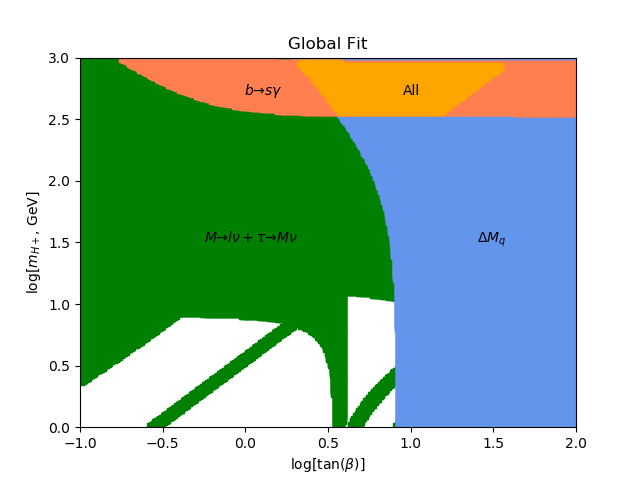
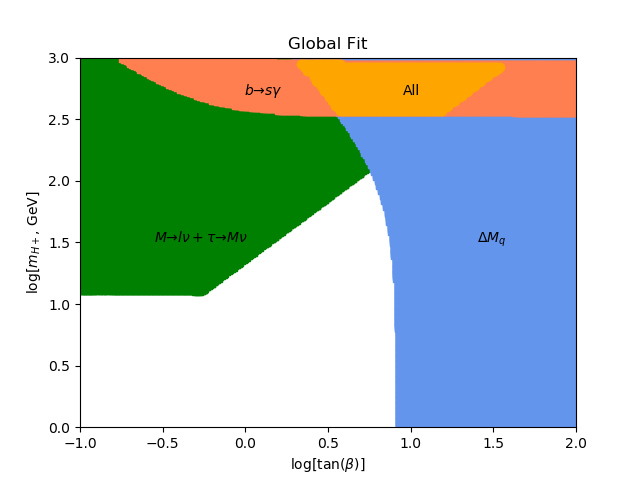
stuff

Changed region(s): [[0.125, 0.3438, 0.625, 0.9062]]

diff --git a/calcs/branching.py b/calcs/branching.py
@@ -50,10 +50,10 @@ kpitau_exp, kpitau_exp_err = [6.438e-2,[9.384e-4,-9.384e-4]]
 # B+ -> tau+ nu
 mH_bplus, tanb_bplus = itera(m_bplus,m_bplus_err,m_tau,m_tau_err,Vub,Vub_err,f_bplus,f_bplus_err,tau_bplus,tau_bplus_err,m_u,m_u_err,m_b,m_b_err,bplus_exp,bplus_err_exp)
 
-plt.figure()
-plt.scatter(tanb_bplus,mH_bplus,c='green',marker=',')
-plt.ylabel('$\\log[m_{H+}$, GeV]')
-plt.xlabel('$\\log[\\tan(\\beta)]$')
+#plt.figure()
+#plt.scatter(tanb_bplus,mH_bplus,c='green',marker=',')
+#plt.ylabel('$\\log[m_{H+}$, GeV]')
+#plt.xlabel('$\\log[\\tan(\\beta)]$')
 #plt.title('$B^+\\to\\tau^+\\nu$')
 #plt.show()
 
@@ -61,7 +61,7 @@ plt.xlabel('$\\log[\\tan(\\beta)]$')
 mH_dplus, tanb_dplus = itera(m_dplus,m_dplus_err,m_mu,m_mu_err,Vcd,Vcd_err,f_dplus,f_dplus_err,tau_dplus,tau_dplus_err,m_c,m_c_err,m_d,m_d_err,dplus_exp,dplus_err_exp)
 
 #plt.figure()
-plt.scatter(tanb_dplus,mH_dplus,c='green',marker=',')
+#plt.scatter(tanb_dplus,mH_dplus,c='green',marker=',')
 #plt.ylabel('$\\log[m_{H+}$, GeV]')
 #plt.xlabel('$\\log[\\tan(\\beta)]$')
 #plt.title('$D^+\\to\\mu^+\\nu$')
@@ -72,27 +72,70 @@ plt.scatter(tanb_dplus,mH_dplus,c='green',marker=',')
 mH_dsplus, tanb_dsplus = itera(m_dsplus,m_dsplus_err,m_tau,m_tau_err,Vcs,Vcs_err,f_dsplus,f_dsplus_err,tau_dsplus,tau_dsplus_err,m_c,m_c_err,m_s,m_s_err,dsplus_exp,dsplus_err_exp)
 
 #plt.figure()
-plt.scatter(tanb_dsplus,mH_dsplus,c='green',marker=',')
+#plt.scatter(tanb_dsplus,mH_dsplus,c='green',marker=',')
 #plt.ylabel('$\\log[m_{H+}$, GeV]')
 #plt.xlabel('$\\log[\\tan(\\beta)]$')
 #plt.title('$D_s^+\\to\\tau^+\\nu$')
 #plt.show()
 
 # (K -> mu)/(pi -> mu) + (tau -> K)/(tau -> pi)
-#mH_kpi, tanb_kpi, 
 mH2, tanb2 = itera_kpi(m_K,m_K_err,m_pi,m_pi_err,m_mu,m_mu_err,m_tau,m_tau_err,Vus,Vus_err,Vud,Vud_err,f_Kpi,f_Kpi_err,delt_kpi,delt_kpi_err,delt_kpitau,delt_kpitau_err,m_s,m_s_err,m_d,m_d_err,m_u,m_u_err,kpi_exp,kpi_exp_err,kpitau_exp,kpi_exp_err)
 
 #plt.figure()
-#plt.scatter(tanb_kpi,mH_kpi,c='green',marker=',')
+#plt.scatter(tanb2,mH2,c='green',marker=',')
 #plt.ylabel('$\\log[m_{H+}$, GeV]')
 #plt.xlabel('$\\log[\\tan(\\beta)]$')
 #plt.title('$K\\to\\mu\\nu/\\pi\\to\\mu\\nu$ & $\\tau\\to K\\nu/\\tau\\to\\pi\\nu$')
 #plt.show()
 
-#plt.figure()
-plt.scatter(tanb2,mH2,c='green',marker=',')
-#plt.ylabel('$\\log[m_{H+}$, GeV]')
-#plt.xlabel('$\\log[\\tan(\\beta)]$')
+hak,tak = [],[]
+for r in range(len(tanb_bplus)):
+    if tanb_bplus[r] > -0.3 and tanb_bplus[r] < 0.7 and mH_bplus[r] > 1.1:
+        tak = np.append(tak,tanb_bplus[r])
+        hak = np.append(hak,mH_bplus[r])
+store_s = []
+for s in range(len(tak)):
+    if tak[s] > 0.4 and tak[s] < 0.75 and hak[s] > 1 and hak[s] < 1.4:
+        store_s = np.append(store_s,s)
+tak = np.delete(tak,store_s)
+hak = np.delete(hak,store_s)
+
+hlep = np.linspace(0,3,300)
+tlep = np.linspace(-1,2,300)
+hlepi = []
+tlepi = []
+
+for i in range(len(hlep)):
+    for j in range(len(tlep)):
+        hb = np.where(mH_bplus==hlep[i])[0]
+        hd = np.where(mH_dplus==hlep[i])[0]
+        hds = np.where(mH_dsplus==hlep[i])[0]
+        hkpi = np.where(mH2==hlep[i])[0]
+        
+        lb,ld,lds,lkpi = [],[],[],[]
+        for k in range(len(hb)):
+            if tanb_bplus[hb[k]] == tlep[j]:
+                lb = np.append(lb,hb[k])
+        for l in range(len(hd)):
+            if tanb_dplus[hd[l]] == tlep[j]:
+                ld = np.append(ld,hd[l])
+        for m in range(len(hds)):
+            if tanb_dsplus[hds[m]] == tlep[j]:
+                lds = np.append(lds,hds[m])
+        for n in range(len(hkpi)):
+            if tanb2[hkpi[n]] == tlep[j]:
+                lkpi = np.append(lkpi,hkpi[n])
+
+        if len(lb) > 0 and len(ld) > 0 and len(lds) > 0 and len(lkpi) > 0:
+            hlepi = np.append(hlepi,hlep[i])
+            tlepi = np.append(tlepi,tlep[j])
+
+plt.figure()
+plt.scatter(tlepi,hlepi,c='green',marker=',')
+plt.scatter(tak,hak,c='green',marker=',')
+plt.ylabel('$\\log[m_{H+}$, GeV]')
+plt.xlabel('$\\log[\\tan(\\beta)]$')
+plt.axis([-1,2,0,3])
 #plt.title('$K\\to\\mu\\nu/\\pi\\to\\mu\\nu$ & $\\tau\\to K\\nu/\\tau\\to\\pi\\nu$')
 #plt.show()
 
@@ -143,8 +186,8 @@ plt.axis([-1,2,0,3])
 #plt.show()
 
 
-
 ###################### b to s gamma
+
 lambda_QCD, QCD_err = [0.224972,[0.012412,-0.012886]]
 mt1, mt1_err = [173.1,[0.9,-0.9]]
 mW1, mW1_err = [80.379,[0.012,-0.012]]
@@ -177,38 +220,26 @@ t = np.linspace(-1,2,300)
 hl = []
 tl = []
 
-for i in range(len(h)):
-    for j in range(len(t)):
-        hb = np.where(mH_bplus==h[i])[0]# and tanb_bplus==t[j]))[0]
-        hd = np.where(mH_dplus==h[i])[0]# and tanb_dplus==t[j]))[0]
-        hds = np.where(mH_dsplus==h[i])[0]# and tanb_dsplus==t[j]))[0]
-        hkpi = np.where(mH2==h[i])[0]# and tanb2==t[j]))[0]
-        hmd = np.where(mH_md==h[i])[0]# and tanb_md==t[j]))[0]
-        hgam = np.where(mH_gam==h[i])[0]# and tanb_ms==t[j]))[0]
+for x in range(len(h)):
+    for y in range(len(t)):
+        hlp = np.where(hlepi==h[x])[0]# and tanb2==t[j]))[0]
+        hmd = np.where(mH_md==h[x])[0]# and tanb_md==t[j]))[0]
+        hgam = np.where(mH_gam==h[x])[0]# and tanb_ms==t[j]))[0]
         
-        lb,ld,lds,lkpi,lmd,lgam = [],[],[],[],[],[]
-        for k in range(len(hb)):
-            if tanb_bplus[hb[k]] == t[j]:
-                lb = np.append(lb,hb[k])
-        for l in range(len(hd)):
-            if tanb_dplus[hd[l]] == t[j]:
-                ld = np.append(ld,hd[l])
-        for m in range(len(hds)):
-            if tanb_dsplus[hds[m]] == t[j]:
-                lds = np.append(lds,hds[m])
-        for n in range(len(hkpi)):
-            if tanb2[hkpi[n]] == t[j]:
-                lkpi = np.append(lkpi,hkpi[n])
-        for o in range(len(hmd)):
-            if tanb_md[hmd[o]] == t[j]:
-                lmd = np.append(lb,hmd[o])
-        for p in range(len(hgam)):
-            if tanb_gam[hgam[p]] == t[j]:
-                lgam = np.append(lgam,hgam[p])
+        llp,lmd,lgam = [],[],[]
+        for ni in range(len(hlp)):
+            if tlepi[hlp[ni]] == t[y]:
+                llp = np.append(llp,hlp[ni])
+        for oi in range(len(hmd)):
+            if tanb_md[hmd[oi]] == t[y]:
+                lmd = np.append(lb,hmd[oi])
+        for pi in range(len(hgam)):
+            if tanb_gam[hgam[pi]] == t[y]:
+                lgam = np.append(lgam,hgam[pi])
 
-        if len(lb) > 0 and len(ld) > 0 and len(lds) > 0 and len(lkpi) > 0 and len(lmd) > 0 and len(lgam) > 0:
-            hl = np.append(hl,h[i])
-            tl = np.append(tl,t[j])
+        if len(llp) > 0 and len(lmd) > 0 and len(lgam) > 0:
+            hl = np.append(hl,h[x])
+            tl = np.append(tl,t[y])
 
 #plt.figure()
 plt.scatter(tl,hl,c='orange')
@@ -216,7 +247,7 @@ plt.axis([-1,2,0,3])
 plt.ylabel('$\\log[m_{H+}$, GeV]')
 plt.xlabel('$\\log[\\tan(\\beta)]$')
 plt.title('Global Fit')
-plt.annotate('$M\\to l\\nu+\\tau\\to M\\nu$',xy=(0.25,0.5),xycoords='axes fraction')
+plt.annotate('$M\\to l\\nu+\\tau\\to M\\nu$',xy=(0.15,0.5),xycoords='axes fraction')
 plt.annotate('$b\\to s\\gamma$',xy=(0.33,0.9),xycoords='axes fraction')
 plt.annotate('All',xy=(0.65,0.9),xycoords='axes fraction')
 plt.annotate('$\\Delta M_q$',xy=(0.8,0.5),xycoords='axes fraction')

diff --git a/calcs/functions.py b/calcs/functions.py
@@ -259,10 +259,6 @@ def itera_kpi(mK,mK_err,mpi,mpi_err,ml,ml_err,mtau,mtau_err,Vus,Vus_err,Vud,Vud_
     tanb_range = 10**log_tanb_range
     mH_loc = []
     tanb_loc = []
-#    mH_loc1 = []
-#    tanb_loc1 = []
-#    mH_loc2 = []
-#    tanb_loc2 = []
     for i in mH_range:
         for j in tanb_range:
             expect_kpi,expect_kpi_tau = decay_bsm(mK,mpi,ml,mtau,Vus,Vud,fKpi,delt_kpi,delt_tau,ms,md,mu,j,i)
@@ -274,19 +270,8 @@ def itera_kpi(mK,mK_err,mpi,mpi_err,ml,ml_err,mtau,mtau_err,Vus,Vus_err,Vud,Vud_
                 i_log, j_log = np.log10(i), np.log10(j)
                 mH_loc = np.append(mH_loc,i_log)
                 tanb_loc = np.append(tanb_loc,j_log)
-#            if (kpi_tau_exp >= expect_kpi_tau and expect_kpi_tau_up >= kpi_tau_exp_down) or (kpi_tau_exp <= expect_kpi_tau and expect_kpi_tau_down <= kpi_tau_exp_up):
-#                i_log2, j_log2 = np.log10(i), np.log10(j)
-#                mH_loc2 = np.append(mH_loc2,i_log2)
-#                tanb_loc2 = np.append(tanb_loc2,j_log2)
-
-#    for m in range(len(tanb_loc2)):
-#        for n in range(len(tanb_loc1)):
-#            if (tanb_loc2[m] == tanb_loc1[n]) and (mH_loc2[m] == mH_loc1[n]):
-#                mH_loc = np.append(mH_loc,mH_loc1[n])
-#                tanb_loc = np.append(tanb_loc,tanb_loc1[n])
 
     return mH_loc, tanb_loc
-#    return mH_loc1, tanb_loc1, mH_loc2, tanb_loc2
 
 def bsgamma(mt,mW,mub,lam_QCD,hi,a,mH,tanb,A0,ac,at,a_s,B0,bc,bt,bs,delt_mc,delt_mt,delt_as,gamc,gamu,Vub,Vts,Vtb,Vcb,alp_EM):
     '''

diff --git a/report/report.tex b/report/report.tex
@@ -9,7 +9,7 @@
 \graphicspath{{../calcs/}}
 
 %\title{\boldmath A title with some math: $x=1$}
-\title{Two Higgs Doublet Model Corrections to Standard Model Flavour Observables}
+\title{CP Violation In and Beyond The Standard Model: Two Higgs Doublet Model Corrections to Standard Model Flavour Observables}
 
 
 %% %simple case: 2 authors, same institution
